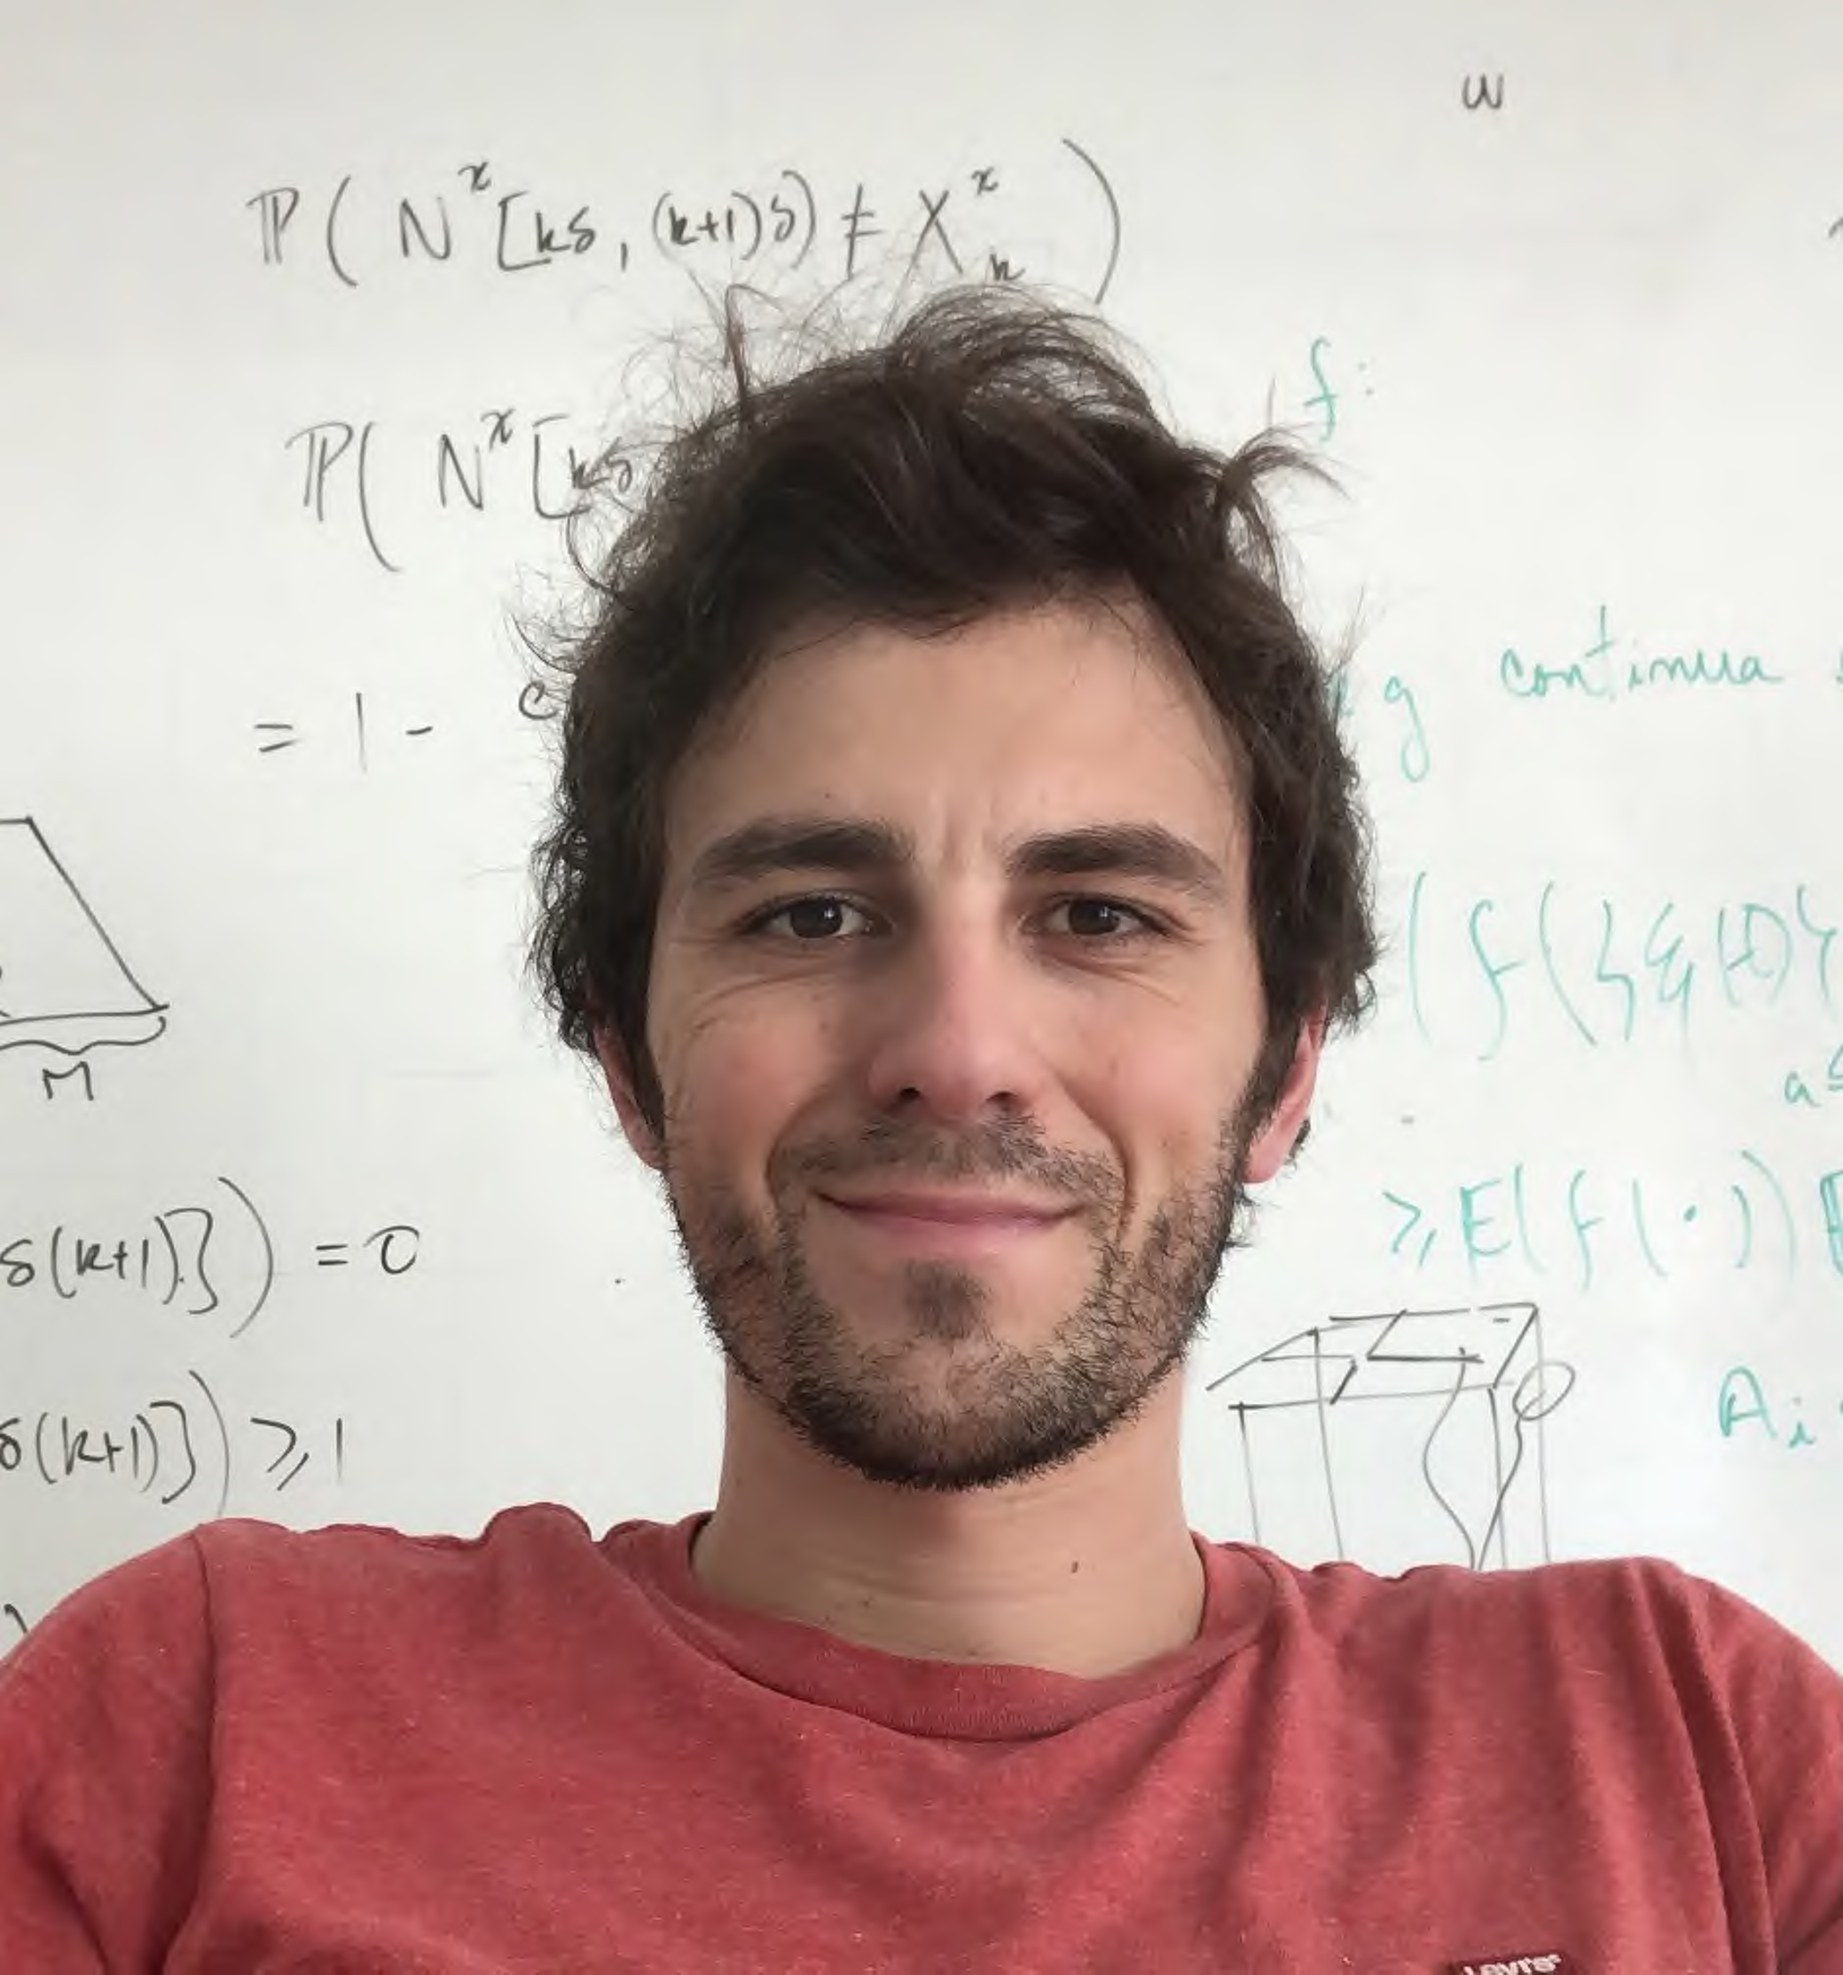
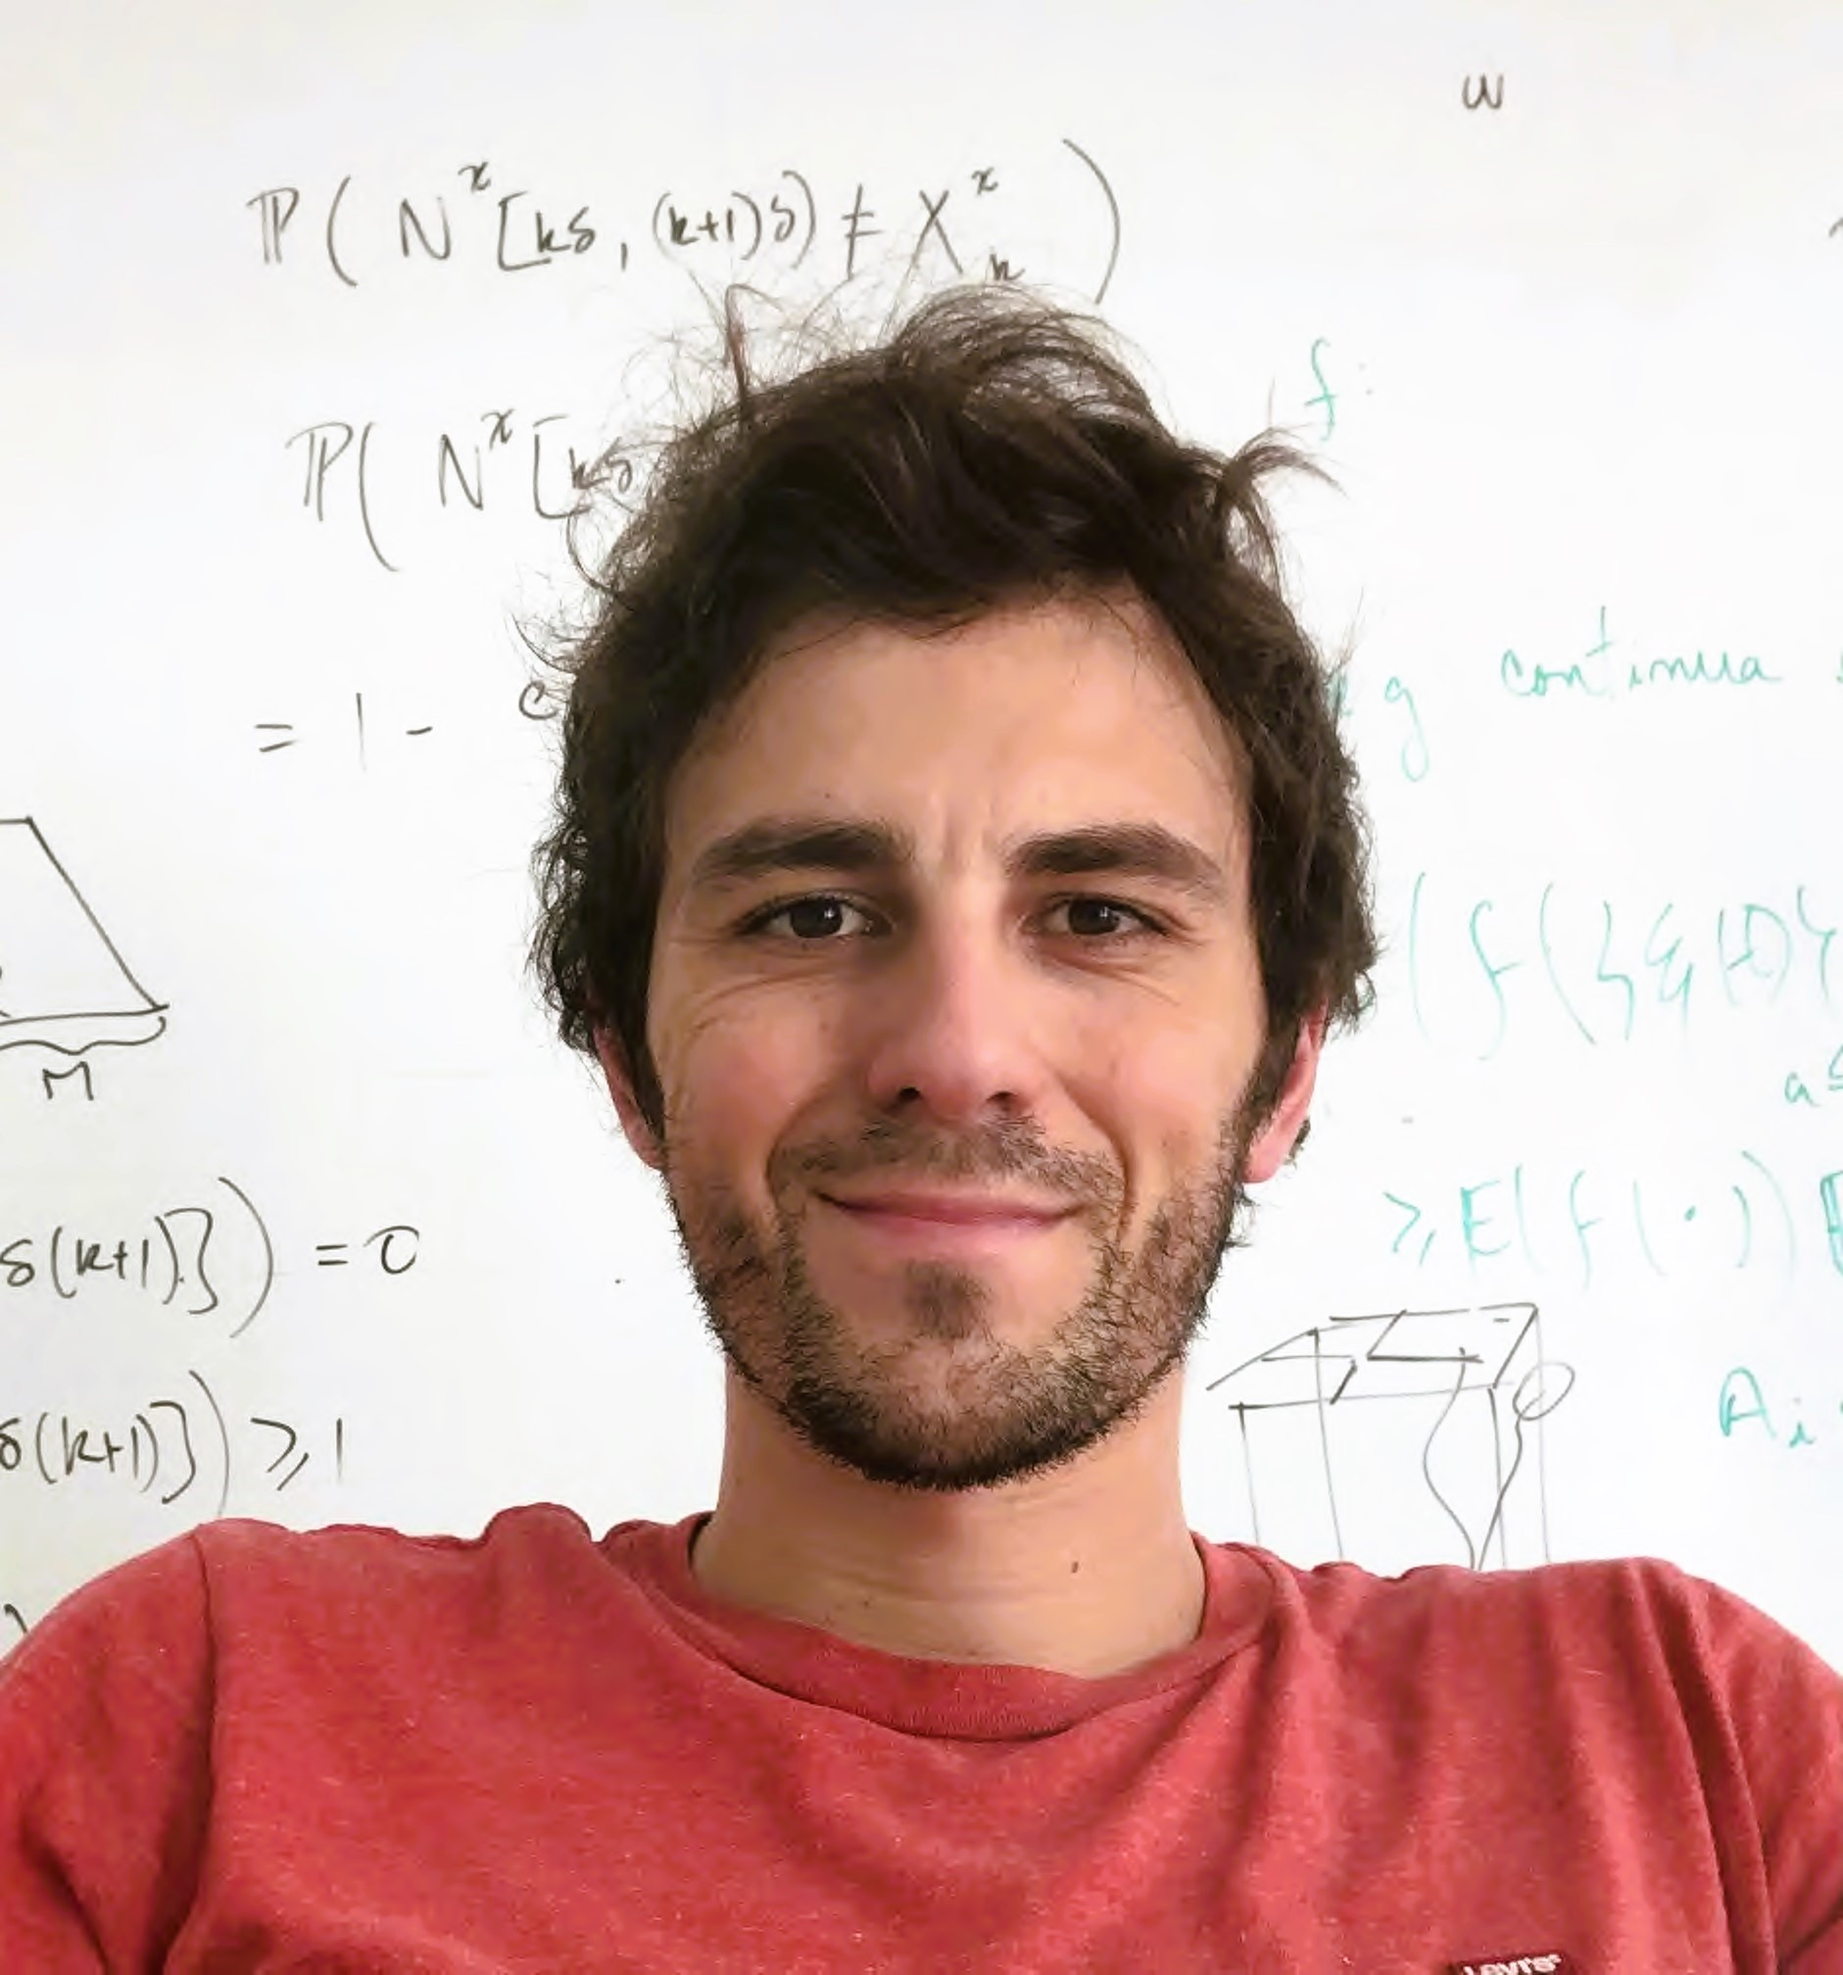
photo

diff --git a/index.html b/index.html
@@ -81,7 +81,7 @@ hr{
 		
 		
 		
-        		<div style="width: 200px; display: table-cell; padding-left: 30px; min-width: 150px;"> <img src="assets/moi.jpg" /> </div> 
+        		<div style="width: 200px; display: table-cell; padding-left: 30px; min-width: 150px;"> <img src="assets/moi_b&w.jpg" /> </div> 
     </div>
 </div>
 
